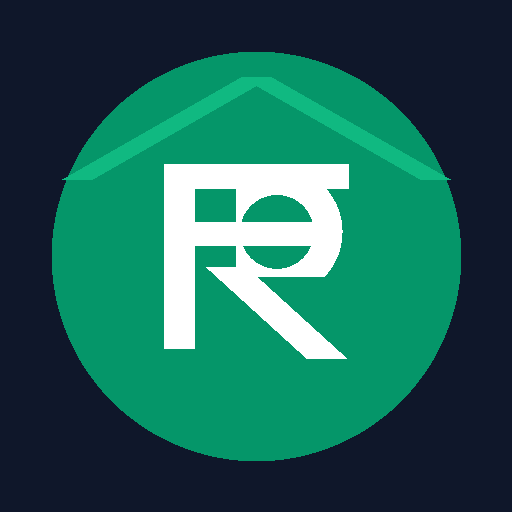
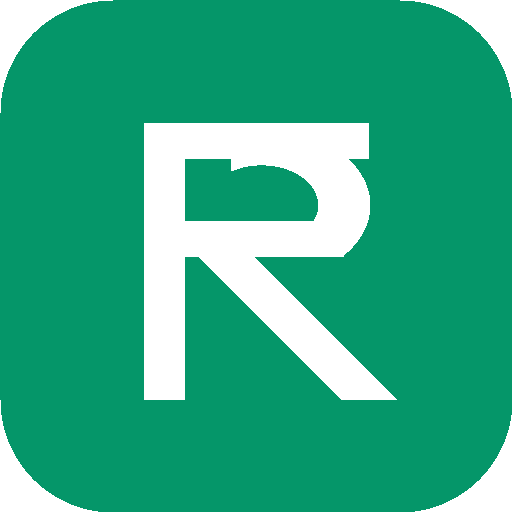
refactor: streamline branding and PWA configuration
- Standardize application branding to "PropTDS"
- Update PWA manifest icons and configurations
- Refactor installation flow in Header
- Remove legacy PDF modal reference

diff --git a/src/components/common/Header.tsx b/src/components/common/Header.tsx
@@ -1,7 +1,7 @@
 import React, { useState } from 'react';
 import { ViewTab } from '../../types/proptds';
 import { usePWAInstall } from '../../hooks/usePWAInstall';
-import { Download, ShieldCheck, HelpCircle, FileText, Calculator, BookOpen, Menu, X } from 'lucide-react';
+import { Download, HelpCircle, FileText, Calculator, BookOpen, Menu, X, Smartphone } from 'lucide-react';
 
 interface HeaderProps {
   currentTab: ViewTab;
@@ -9,9 +9,9 @@ interface HeaderProps {
   onOpenPdfModal?: () => void;
 }
 
-export const Header: React.FC<HeaderProps> = ({ currentTab, onSelectTab, onOpenPdfModal }) => {
+export const Header: React.FC<HeaderProps> = ({ currentTab, onSelectTab }) => {
   const { isInstallable, install, isIOS } = usePWAInstall();
-  const [showIOSModal, setShowIOSModal] = useState(false);
+  const [showInstallGuideModal, setShowInstallGuideModal] = useState(false);
   const [mobileMenuOpen, setMobileMenuOpen] = useState(false);
 
   const navLinks: { id: ViewTab; label: string; icon: React.ReactNode }[] = [
@@ -21,11 +21,22 @@ export const Header: React.FC<HeaderProps> = ({ currentTab, onSelectTab, onOpenP
     { id: 'efiling-guide', label: 'e-Filing Guide', icon: <HelpCircle className="w-4 h-4" /> },
   ];
 
+  const handleInstallClick = () => {
+    if (isInstallable) {
+      install();
+    } else if (isIOS) {
+      setShowInstallGuideModal(true);
+    } else {
+      // If browser doesn't expose native beforeinstallprompt (e.g. desktop Chrome already installed or Firefox/Safari)
+      setShowInstallGuideModal(true);
+    }
+  };
+
   return (
     <header className="sticky top-0 z-40 bg-slate-900 border-b border-slate-800 text-white">
       <div className="max-w-7xl mx-auto px-4 sm:px-6 lg:px-8">
         <div className="flex items-center justify-between h-16 gap-3 sm:gap-6 lg:gap-8">
-          {/* Zone 1: Brand Wordmark (Single text element) */}
+          {/* Zone 1: Brand Wordmark */}
           <button
             onClick={() => {
               onSelectTab('calculator');
@@ -44,12 +55,12 @@ export const Header: React.FC<HeaderProps> = ({ currentTab, onSelectTab, onOpenP
                 </span>
               </div>
               <div className="text-[10px] sm:text-[11px] text-slate-400 leading-none">
-                प्रॉपटीडीएस · Form 26QB Split
+                Section 194-IA · Form 26QB Split
               </div>
             </div>
           </button>
 
-          {/* Zone 2: Nav Links (Clean single-line text links) */}
+          {/* Zone 2: Desktop Nav Links */}
           <nav className="hidden lg:flex items-center gap-6 text-sm font-medium text-slate-300">
             {navLinks.map((link) => {
               const isActive = currentTab === link.id;
@@ -70,37 +81,17 @@ export const Header: React.FC<HeaderProps> = ({ currentTab, onSelectTab, onOpenP
             })}
           </nav>
 
-          {/* Zone 3: Primary Action & PWA Controls */}
+          {/* Zone 3: Install App Button in Top Navbar & Hamburger */}
           <div className="flex items-center gap-2 sm:gap-3 shrink-0">
-            {isInstallable && (
-              <button
-                onClick={install}
-                className="hidden sm:inline-flex items-center gap-1.5 px-3 py-1.5 text-xs font-medium text-emerald-300 bg-emerald-950/80 border border-emerald-700/60 rounded-md hover:bg-emerald-900 transition-colors whitespace-nowrap shrink-0 cursor-pointer"
-                title="Install offline PWA on your device"
-              >
-                <Download className="w-3.5 h-3.5" />
-                Install App
-              </button>
-            )}
-
-            {isIOS && !isInstallable && (
-              <button
-                onClick={() => setShowIOSModal(true)}
-                className="hidden sm:inline-flex items-center gap-1 px-2.5 py-1 text-xs text-slate-300 bg-slate-800 rounded border border-slate-700 hover:bg-slate-700 whitespace-nowrap cursor-pointer"
-              >
-                Add to Home
-              </button>
-            )}
-
-            {onOpenPdfModal && (
-              <button
-                onClick={onOpenPdfModal}
-                className="inline-flex items-center gap-1.5 px-2.5 sm:px-3.5 py-2 text-xs font-semibold text-slate-900 bg-emerald-400 hover:bg-emerald-300 active:bg-emerald-500 rounded-lg shadow-sm transition-colors whitespace-nowrap shrink-0 cursor-pointer"
-              >
-                <Download className="w-3.5 h-3.5" />
-                <span className="hidden sm:inline">Download Challan </span>PDF
-              </button>
-            )}
+            {/* Install App button in Navbar on both mobile and desktop */}
+            <button
+              onClick={handleInstallClick}
+              className="inline-flex items-center gap-1.5 px-3 py-1.5 text-xs font-semibold text-white bg-emerald-600 hover:bg-emerald-500 active:bg-emerald-700 rounded-lg shadow-sm transition-colors whitespace-nowrap cursor-pointer min-h-[36px]"
+              title="Install PropTDS on your device for instant offline access"
+            >
+              <Download className="w-3.5 h-3.5" />
+              <span>Install App</span>
+            </button>
 
             {/* Mobile menu trigger */}
             <button
@@ -113,7 +104,7 @@ export const Header: React.FC<HeaderProps> = ({ currentTab, onSelectTab, onOpenP
           </div>
         </div>
 
-        {/* Mobile Navigation Dropdown */}
+        {/* Mobile Navigation Dropdown (Strictly Nav Links, No Duplicates) */}
         {mobileMenuOpen && (
           <div className="lg:hidden py-3 border-t border-slate-800 space-y-1">
             {navLinks.map((link) => (
@@ -133,66 +124,49 @@ export const Header: React.FC<HeaderProps> = ({ currentTab, onSelectTab, onOpenP
                 {link.label}
               </button>
             ))}
-
-            <div className="pt-2 border-t border-slate-800/80 space-y-1">
-              {isInstallable && (
-                <button
-                  onClick={() => {
-                    install();
-                    setMobileMenuOpen(false);
-                  }}
-                  className="w-full flex items-center gap-2.5 px-3 py-2.5 text-sm text-emerald-400 hover:bg-slate-800/60 rounded-md cursor-pointer min-h-[44px]"
-                >
-                  <Download className="w-4 h-4" />
-                  Install App (Offline PWA)
-                </button>
-              )}
-
-              {isIOS && (
-                <button
-                  onClick={() => {
-                    setShowIOSModal(true);
-                    setMobileMenuOpen(false);
-                  }}
-                  className="w-full flex items-center gap-2.5 px-3 py-2.5 text-sm text-emerald-400 hover:bg-slate-800/60 rounded-md cursor-pointer min-h-[44px]"
-                >
-                  <Download className="w-4 h-4" />
-                  Add to Home Screen (iOS)
-                </button>
-              )}
-
-              {onOpenPdfModal && (
-                <button
-                  onClick={() => {
-                    onOpenPdfModal();
-                    setMobileMenuOpen(false);
-                  }}
-                  className="w-full flex items-center gap-2.5 px-3 py-2.5 text-sm text-slate-200 hover:bg-slate-800/60 rounded-md cursor-pointer min-h-[44px]"
-                >
-                  <FileText className="w-4 h-4" />
-                  Export Challan PDF Summary
-                </button>
-              )}
-            </div>
           </div>
         )}
       </div>
 
-      {/* iOS Safari Guide Modal */}
-      {showIOSModal && (
-        <div className="fixed inset-0 z-50 flex items-center justify-center bg-black/60 p-4">
-          <div className="w-full max-w-sm rounded-xl bg-slate-900 border border-slate-700 p-6 text-white shadow-2xl">
-            <h3 className="text-base font-semibold">Install PropTDS on iOS</h3>
-            <p className="mt-2 text-xs text-slate-300 leading-relaxed">
-              1. Tap the <strong>Share</strong> button (box with upward arrow) in the Safari toolbar.<br />
-              2. Scroll down and tap <strong>Add to Home Screen</strong>.<br />
-              3. Tap <strong>Add</strong> in the top right. PropTDS will run 100% offline.
-            </p>
+      {/* Clean PWA Install Guide Modal */}
+      {showInstallGuideModal && (
+        <div className="fixed inset-0 z-50 flex items-center justify-center bg-black/60 backdrop-blur-xs p-4">
+          <div className="w-full max-w-sm rounded-xl bg-slate-900 border border-slate-700 p-5 text-white shadow-2xl space-y-4">
+            <div className="flex items-center gap-3 border-b border-slate-800 pb-3">
+              <div className="w-9 h-9 rounded-lg bg-emerald-600 flex items-center justify-center font-bold text-white text-base shadow-sm ring-1 ring-emerald-400/30">
+                ₹
+              </div>
+              <div>
+                <h3 className="text-sm font-bold text-white">PropTDS</h3>
+                <p className="text-[11px] text-slate-400">Offline PWA App</p>
+              </div>
+            </div>
+
+            <div className="text-xs text-slate-300 leading-relaxed space-y-2">
+              <p className="font-semibold text-emerald-400 flex items-center gap-1.5">
+                <Smartphone className="w-3.5 h-3.5" />
+                How to install PropTDS:
+              </p>
+              {isIOS ? (
+                <ol className="list-decimal pl-4 space-y-1 text-slate-300">
+                  <li>Tap the <strong>Share</strong> button (box with upward arrow) in the Safari toolbar.</li>
+                  <li>Scroll down and tap <strong>Add to Home Screen</strong>.</li>
+                  <li>Tap <strong>Add</strong> in the top right. PropTDS will launch as a native standalone app.</li>
+                </ol>
+              ) : (
+                <ol className="list-decimal pl-4 space-y-1 text-slate-300">
+                  <li>Tap the browser menu (three dots in Chrome / Edge).</li>
+                  <li>Select <strong>Install app</strong> or <strong>Add to Home screen</strong>.</li>
+                  <li>PropTDS will be added to your home screen or desktop.</li>
+                </ol>
+              )}
+            </div>
+
             <button
-              onClick={() => setShowIOSModal(false)}
-              className="mt-4 w-full rounded-lg bg-emerald-600 hover:bg-emerald-500 py-2 text-xs font-semibold text-white transition-colors cursor-pointer"
+              onClick={() => setShowInstallGuideModal(false)}
+              className="w-full rounded-lg bg-emerald-600 hover:bg-emerald-500 py-2.5 text-xs font-semibold text-white transition-colors cursor-pointer"
             >
-              Done
+              Close
             </button>
           </div>
         </div>

diff --git a/index.html b/index.html
@@ -21,7 +21,7 @@
       content="Zero-math Section 194-IA property TDS calculator for Indian real estate buyers. Accurate co-owner splits, circle rate vs agreement valuation, and statutory late fees."
     />
     <meta property="og:url" content="https://proptds.fsite.workers.dev/" />
-    <meta property="og:image" content="https://proptds.fsite.workers.dev/pwa-512x512.png" />
+    <meta property="og:image" content="https://proptds.fsite.workers.dev/icon.png" />
 
     <!-- Twitter / X Cards -->
     <meta name="twitter:card" content="summary_large_image" />
@@ -30,7 +30,7 @@
       name="twitter:description"
       content="Zero-math Section 194-IA property TDS calculator for Indian real estate buyers. Multi-party splits, circle rate evaluation, and late fees."
     />
-    <meta name="twitter:image" content="https://proptds.fsite.workers.dev/pwa-512x512.png" />
+    <meta name="twitter:image" content="https://proptds.fsite.workers.dev/icon.png" />
 
     <!-- Application Brand & PWA Meta -->
     <meta name="application-name" content="PropTDS" />
@@ -44,10 +44,10 @@
     <link rel="icon" href="/favicon.ico" sizes="any" />
     <link rel="shortcut icon" href="/favicon.ico" />
     <link rel="icon" type="image/svg+xml" href="/icon.svg" />
-    <link rel="icon" type="image/png" sizes="192x192" href="/pwa-192x192.png" />
-    <link rel="icon" type="image/png" sizes="512x512" href="/pwa-512x512.png" />
+    <link rel="icon" type="image/png" sizes="192x192" href="/icon.png" />
+    <link rel="icon" type="image/png" sizes="512x512" href="/icon.png" />
     <link rel="apple-touch-icon" sizes="180x180" href="/apple-touch-icon.png" />
-    <link rel="manifest" href="/manifest.webmanifest" />
+    <link rel="manifest" href="/manifest.json" />
 
     <!-- Typography: Plus Jakarta Sans & JetBrains Mono -->
     <link rel="preconnect" href="https://fonts.googleapis.com" />
@@ -77,7 +77,7 @@
             "@type": "WebApplication",
             "@id": "https://proptds.fsite.workers.dev/#app",
             "name": "PropTDS",
-            "alternateName": "प्रॉपटीडीएस",
+            "alternateName": "Prop TDS",
             "applicationCategory": "FinanceApplication",
             "operatingSystem": "All",
             "url": "https://proptds.fsite.workers.dev/",

diff --git a/src/components/common/Footer.tsx b/src/components/common/Footer.tsx
@@ -46,10 +46,10 @@ export const Footer: React.FC<FooterProps> = ({ onSelectTab }) => {
               <div className="w-6 h-6 rounded bg-emerald-600 flex items-center justify-center font-bold text-white text-xs">
                 ₹
               </div>
-              <span className="text-sm font-bold text-white">PropTDS (प्रॉपटीडीएस)</span>
+              <span className="text-sm font-bold text-white">PropTDS</span>
             </div>
             <p className="text-slate-400 leading-relaxed text-xs max-w-lg">
-              PropTDS is a specialized computational utility built for Indian property buyers, co-purchasers, deed writers (दस्तावेज़ लेखक), and tax professionals. It resolves multi-buyer and multi-seller Form 26QB splits, evaluates Circle Rate vs Agreement Value under Section 50C, and calculates statutory Section 234E late fees and Section 201(1A) interest.
+              PropTDS is a specialized computational utility built for Indian property buyers, co-purchasers, deed writers, and tax professionals. It resolves multi-buyer and multi-seller Form 26QB splits, evaluates Circle Rate vs Agreement Value under Section 50C, and calculates statutory Section 234E late fees and Section 201(1A) interest.
             </p>
             <div className="text-[11px] text-slate-500">
               Portal Reference: Income Tax e-Filing 2.0 (e-Pay Tax) & TRACES Form 16B Certificate System.
@@ -141,7 +141,7 @@ export const Footer: React.FC<FooterProps> = ({ onSelectTab }) => {
 
         <div className="pt-4 border-t border-slate-800/80 flex flex-col sm:flex-row items-center justify-between gap-3 text-[11px] text-slate-500">
           <div>
-            © {new Date().getFullYear()} PropTDS (प्रॉपटीडीएस). Built for transparent Indian real estate compliance.
+            © {new Date().getFullYear()} PropTDS. Built for transparent Indian real estate compliance.
           </div>
           <div className="flex items-center gap-4">
             <span>Serverless Edge Architecture</span>

diff --git a/vite.config.ts b/vite.config.ts
@@ -13,34 +13,24 @@ export default defineConfig(() => {
         registerType: 'autoUpdate',
         includeAssets: ['favicon.ico', 'icon.svg', 'apple-touch-icon.png'],
         manifest: {
-          id: '/',
-          name: 'PropTDS - Property TDS & 26QB Split Calculator',
+          name: 'PropTDS',
           short_name: 'PropTDS',
-          description:
-            'Zero-math Section 194-IA (Form 26QB) property TDS calculator for multi-party splits, circle rate, and late fees.',
-          theme_color: '#0F172A',
-          background_color: '#FFFFFF',
-          display: 'standalone',
           start_url: '/',
-          scope: '/',
+          display: 'standalone',
+          background_color: '#0F172A',
+          theme_color: '#0F172A',
           icons: [
             {
-              src: '/pwa-192x192.png',
+              src: '/icon.png',
               sizes: '192x192',
               type: 'image/png',
-              purpose: 'any',
+              purpose: 'any maskable',
             },
             {
-              src: '/pwa-512x512.png',
+              src: '/icon.png',
               sizes: '512x512',
               type: 'image/png',
-              purpose: 'any',
-            },
-            {
-              src: '/pwa-maskable-512x512.png',
-              sizes: '512x512',
-              type: 'image/png',
-              purpose: 'maskable',
+              purpose: 'any maskable',
             },
           ],
         },

diff --git a/src/components/calculator/ChallanMatrixTable.tsx b/src/components/calculator/ChallanMatrixTable.tsx
@@ -127,10 +127,11 @@ export const ChallanMatrixTable: React.FC<ChallanMatrixTableProps> = ({
           <button
             type="button"
             onClick={onOpenPdfModal}
-            className="inline-flex items-center gap-1.5 px-3.5 py-1.5 text-xs font-semibold text-white bg-slate-900 hover:bg-slate-800 rounded-lg shadow-2xs transition-colors cursor-pointer"
+            className="inline-flex items-center gap-1.5 px-3.5 py-1.5 text-xs font-semibold text-white bg-emerald-600 hover:bg-emerald-700 active:bg-emerald-800 rounded-lg shadow-sm transition-colors cursor-pointer min-h-[34px]"
+            title="Download formal A4 Form 26QB Challan Split Certificate PDF"
           >
             <Download className="w-3.5 h-3.5" />
-            Export Schedule PDF
+            Download Challan PDF
           </button>
         </div>
       </div>

diff --git a/src/components/legal/LegalPages.tsx b/src/components/legal/LegalPages.tsx
@@ -31,7 +31,7 @@ export const LegalPages: React.FC<LegalPagesProps> = ({ type, onBackToCalculator
 
           <div className="text-xs text-slate-700 leading-relaxed space-y-3">
             <div className="p-4 bg-amber-50 rounded-lg border border-amber-200 text-amber-950 font-medium">
-              PropTDS (प्रॉपटीडीएस) is an independent mathematical simulation and pre-filing validation utility. It does not provide Chartered Accountancy, legal, investment, or statutory tax advisory services.
+              PropTDS is an independent mathematical simulation and pre-filing validation utility. It does not provide Chartered Accountancy, legal, investment, or statutory tax advisory services.
             </div>
 
             <h2 className="text-sm font-bold text-slate-900 pt-2">No Government Affiliation</h2>

diff --git a/src/App.tsx b/src/App.tsx
@@ -1,5 +1,5 @@
 /**
- * PropTDS (प्रॉपटीडीएस) - Property TDS & Form 26QB Split Calculator
+ * PropTDS - Property TDS & Form 26QB Split Calculator
  * @license Apache-2.0
  */
 
@@ -167,7 +167,6 @@ export default function App() {
       <Header
         currentTab={currentTab}
         onSelectTab={(tab) => handleSelectTab(tab)}
-        onOpenPdfModal={handleOpenPdfModal}
       />
 
       {/* Main Content Area */}
